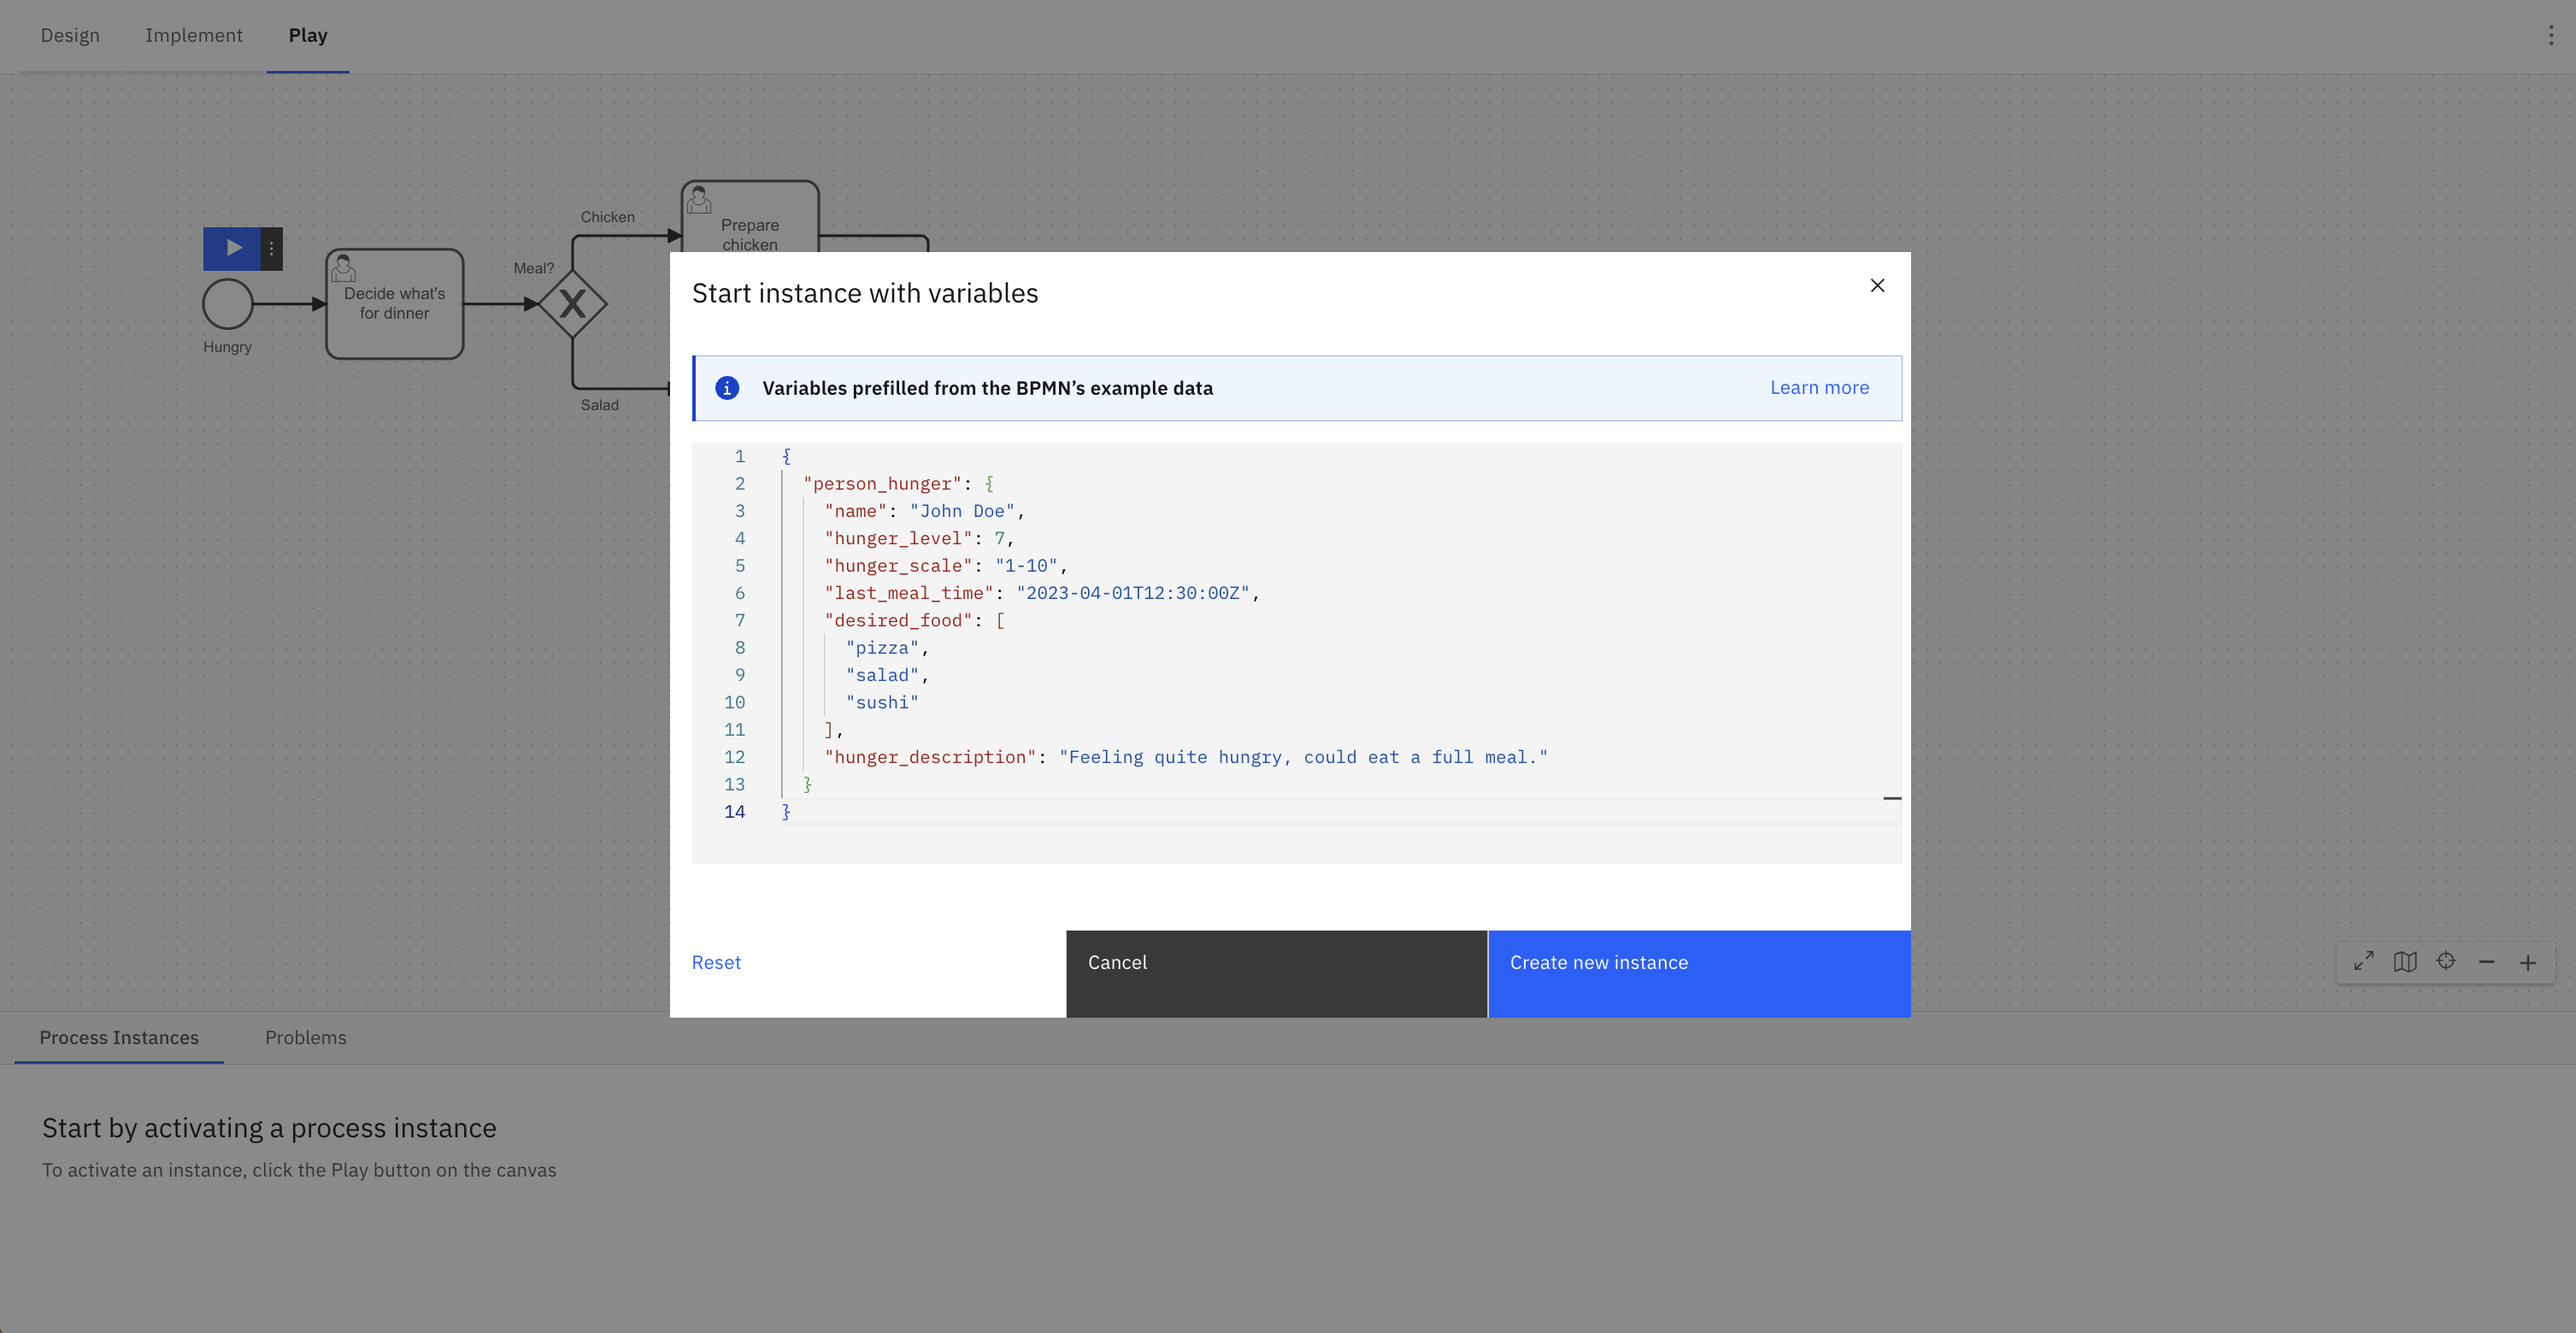
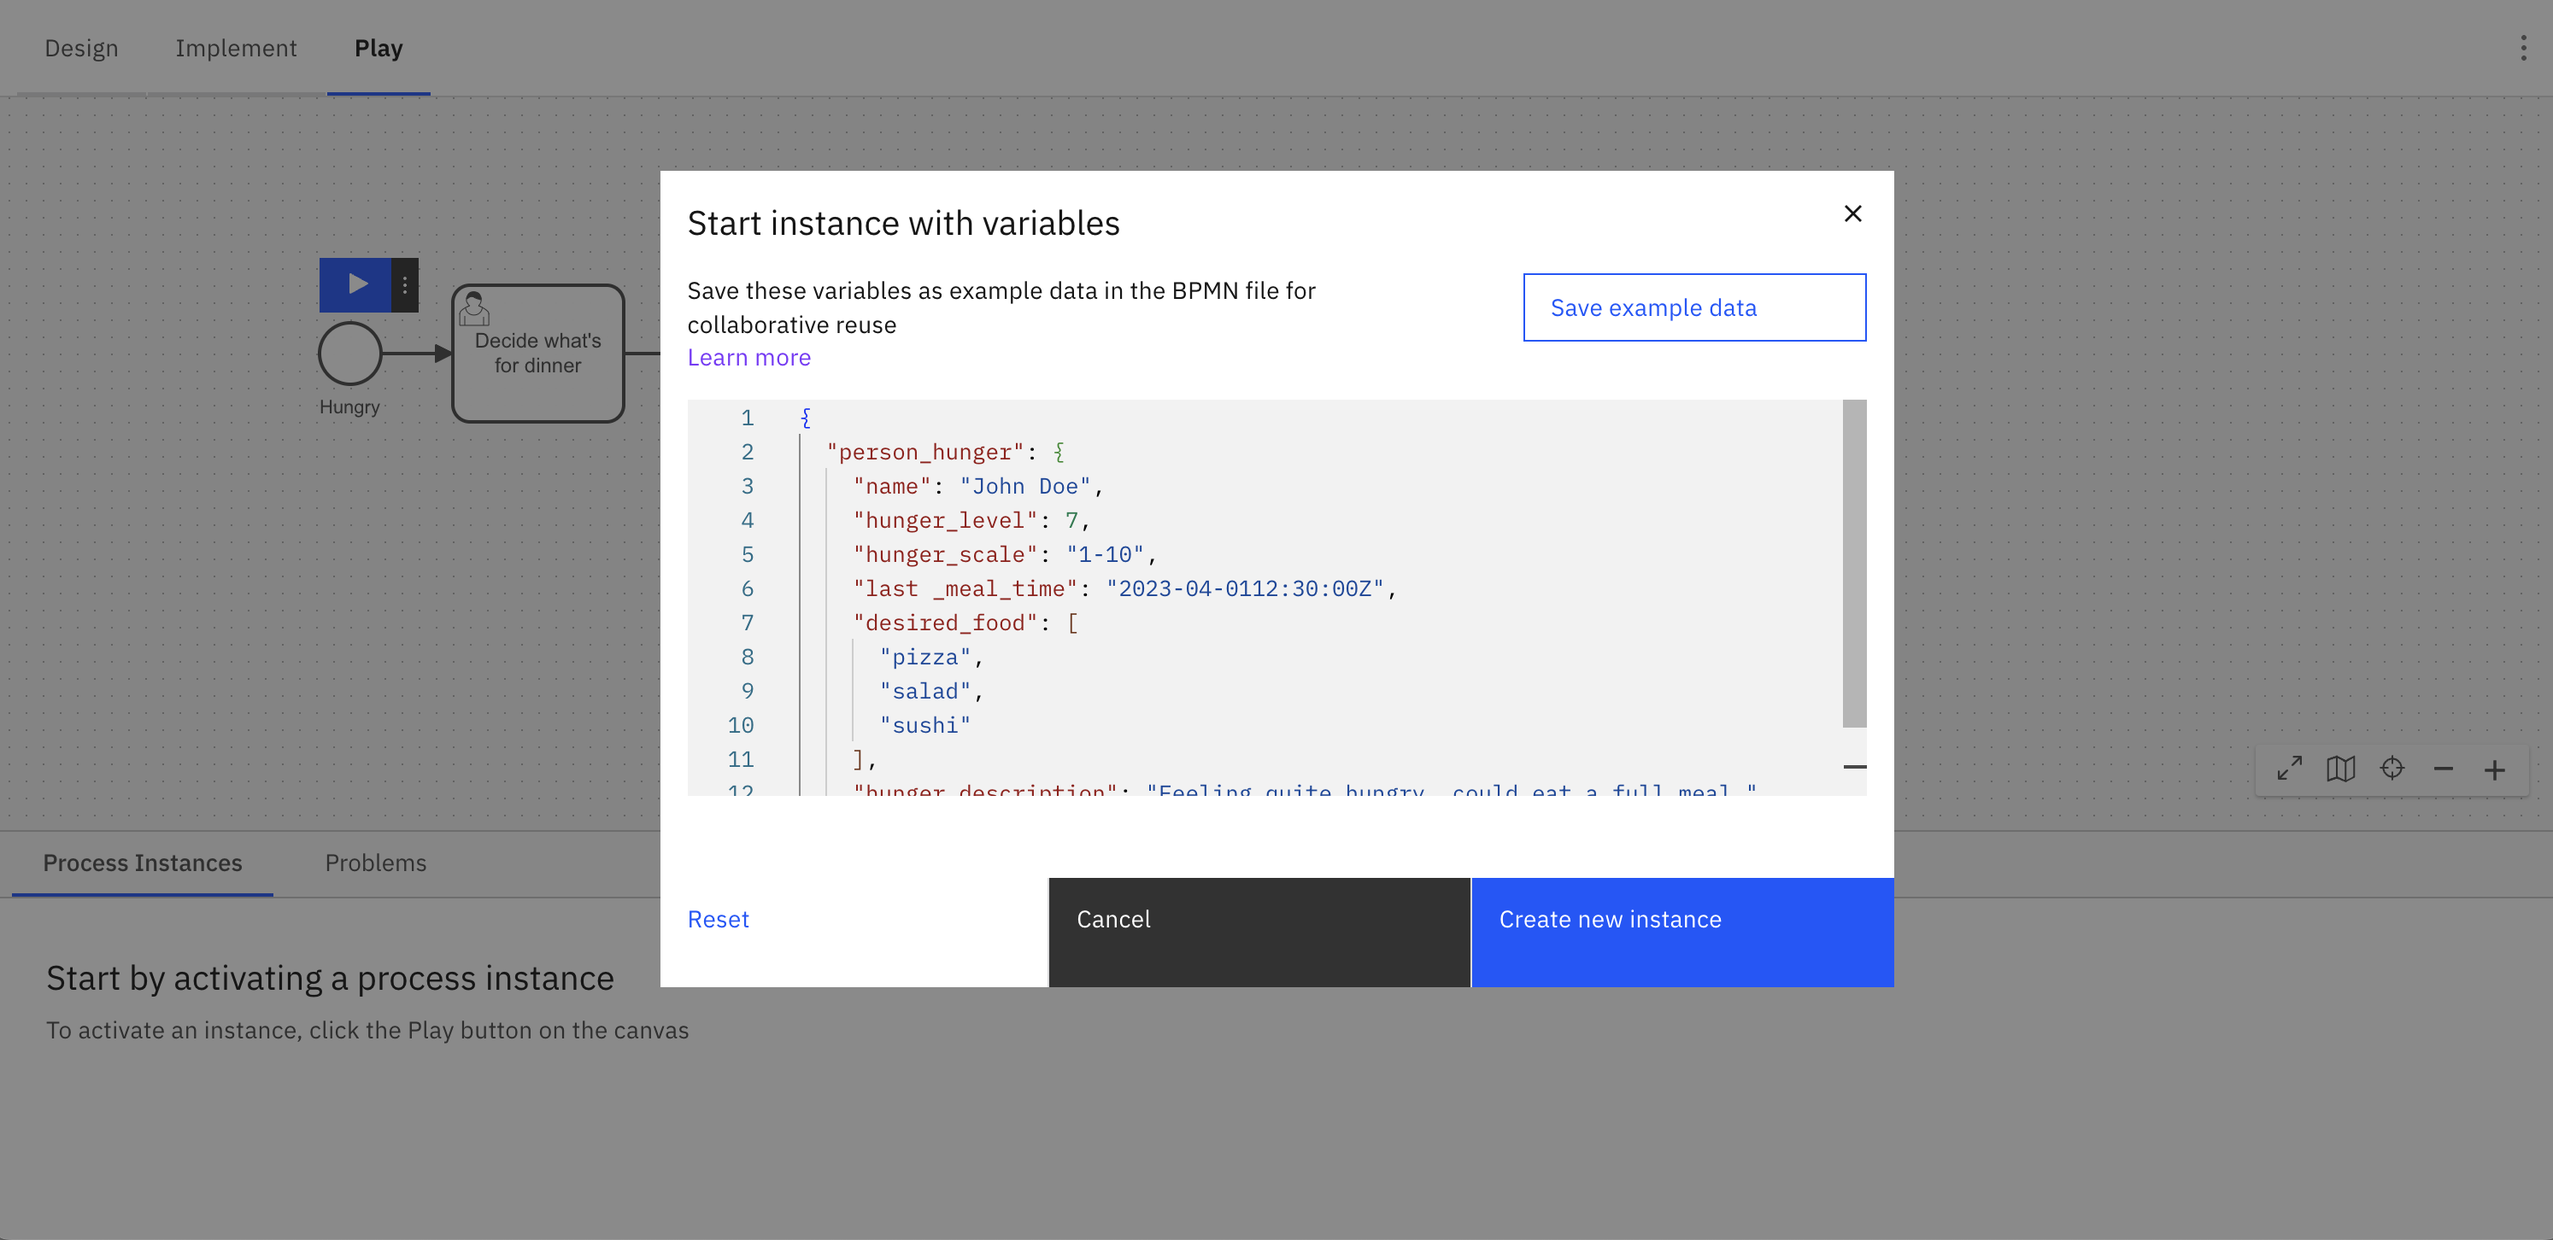
feat: describe example data usage in play
closes https://github.com/camunda/play/issues/494

diff --git a/docs/components/modeler/web-modeler/play-your-process.md b/docs/components/modeler/web-modeler/play-your-process.md
@@ -24,7 +24,9 @@ The current version of the active process and all its dependencies, like called 
 
 The first view in Play is the process definition view. It shows deployment problems, active process instances, and start events.
 
-Click a **start event's** play button to begin your process. Open the button's menu to start a process with variables. These variables can also be prefilled from the example data defined for the start event in the **Implement** mode. Play presents this example data in a readable JSON format, as illustrated below. See [data handling](/components/modeler/data-handling.md) for additional details.
+Click a **start event's** play button to begin your process. Open the button's menu to start a process with variables. These variables can also be prefilled from the example data defined for the start event in the **Implement** mode.
+Alternatively you can save example data to the BPMN file directly from the modal in Play to reuse it in future sessions or share it with others.
+Play presents this example data in a readable JSON format, as illustrated below. See [data handling](/components/modeler/data-handling.md) for additional details.
 
 ![play example data](img/play-example-data.png)
 
@@ -44,8 +46,13 @@ However, actions in Play cannot be triggered by any external system, such as ext
 
 You have a few options to mock an external system:
 
-- In **Implement** mode, hard-code an example payload in the task or event **Output** section.
+- In **Implement** mode, hard-code an example payload in the task or event's **Example data** section in the properties panel.
 - When completing a task or event, use the secondary action to complete it with variables.
+- When filling forms or setting variables from Play, you can also save the variables to the BPMN file as example data to reuse them in future sessions.
+
+Play automatically uses example data from the BPMN file for many events and task types.
+If you want to use different data, you can override the example data by opening the secondary action menu on an element.
+The new data set will take precedent over the example data from the BPMN file for future Play sessions.
 
 Incidents are raised in Play just like in Operate. Use the variables and incident messages to debug the process instance.
 
